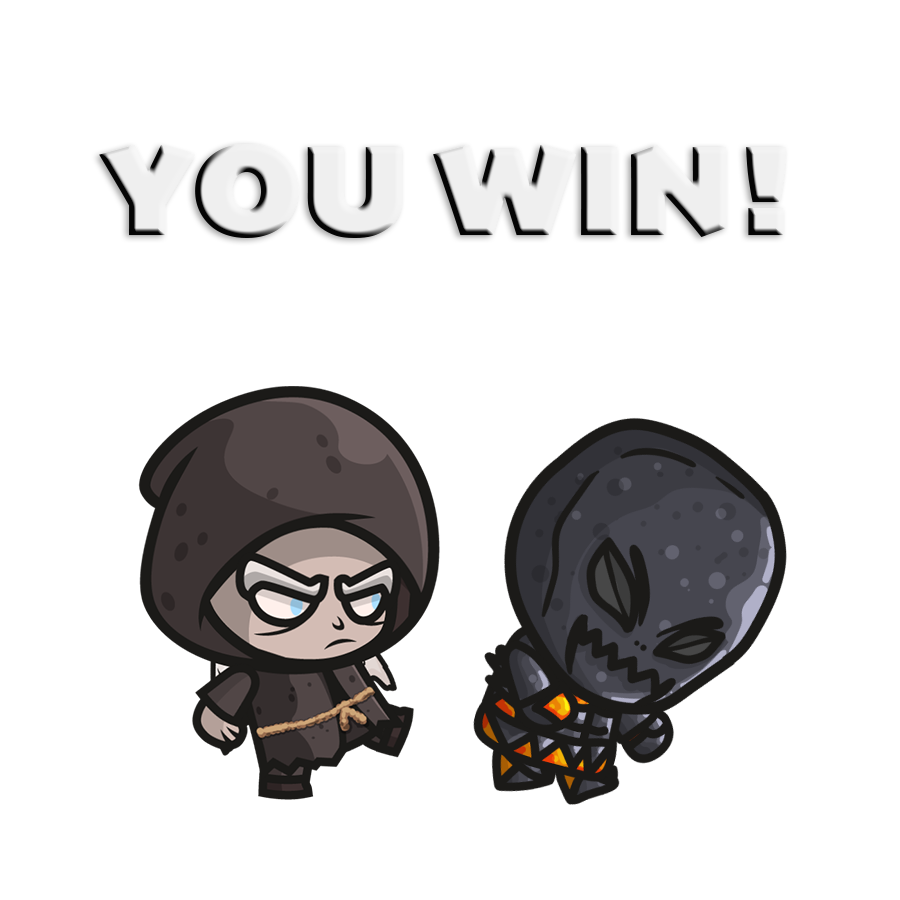
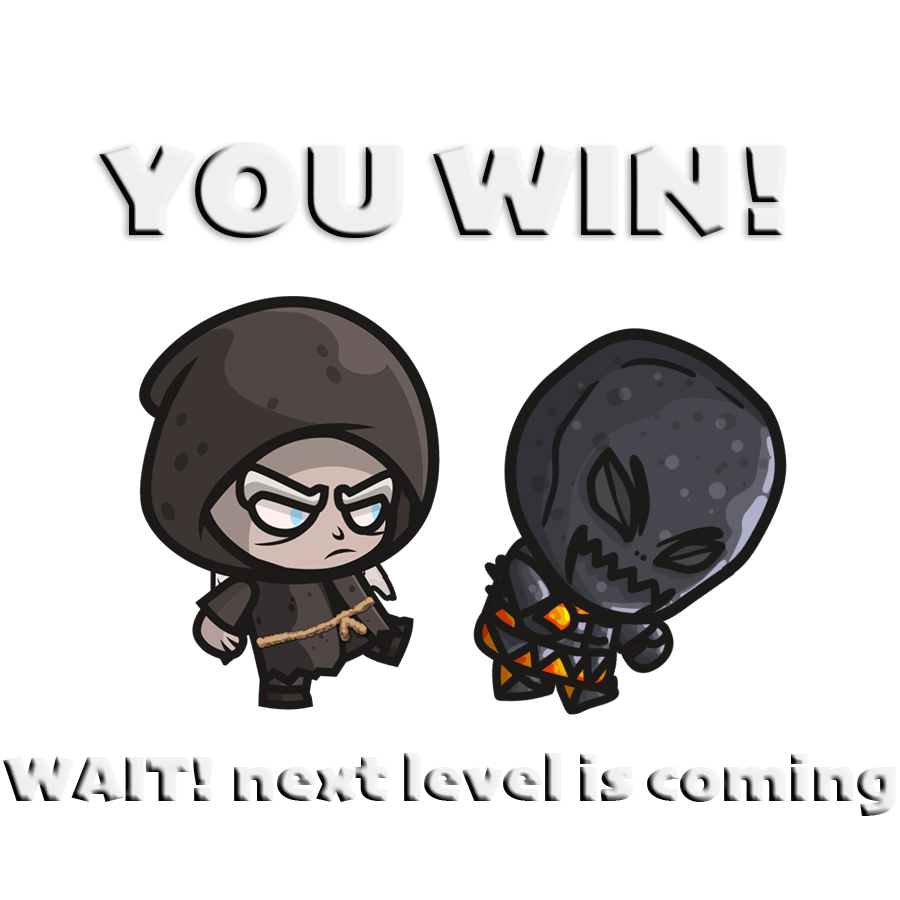
refactoring 2

Changed region(s): [[0.0, 0.3111, 0.9956, 0.9022]]

diff --git a/js/game.js b/js/game.js
@@ -25,6 +25,7 @@ const game = {
     lifeArray: [],
     newLife: [],
     finish: '',
+    actualLevel: 0,
 
     init() {
         this.canvas = document.getElementById("Lakeside");
@@ -34,6 +35,7 @@ const game = {
         this.setWindowsMove();
         this.start();
         this.resetButton()
+        this.restartButton()
         this.audioButton()
 
 
@@ -47,7 +49,6 @@ const game = {
 
             if (this.framesCounter > 10000) this.framesCounter = 0
             // this.backgroundNight()
-
             this.clearScreen()
             this.drawAll()
             this.moveALl()
@@ -71,8 +72,9 @@ const game = {
         this.enemiesArray = []
         this.lifeArray = []
         this.newLife = []
+        this.finish = ''
 
-        this.level1()
+        this.level()
 
         //Player
         this.player = new Player(this.ctx, this.windowsSize.width, this.windowsSize.height, this.keys, this.framesCounter)
@@ -81,10 +83,7 @@ const game = {
     drawAll() {
         this.backgroundArray.forEach(obs => obs.draw())
         this.lifeArray.forEach(obs => obs.draw())
-
         this.objectsArray.forEach(obs => obs.draw())
-        // this.objectsInMovementY.forEach(obs => obs.draw())
-        // this.objectsInMovementX.forEach(obs => obs.draw())
         this.newLife.forEach(obs => obs.draw())
         this.enemiesArray.forEach(obs => obs.draw(this.framesCounter))
         this.finish.draw()
@@ -92,10 +91,7 @@ const game = {
         this.player.draw(this.framesCounter);
     },
     moveALl() {
-        // this.backgroundArray.forEach(obs => obs.move())
         this.player.move(this.framesCounter);
-        // this.objectsInMovementY.forEach(obs => obs.moveY())
-        // this.objectsInMovementX.forEach(obs => obs.moveX())
         this.objectsArray.forEach(obs => obs.move())
         this.enemiesArray.forEach(obs => obs.move())
 
@@ -217,7 +213,6 @@ const game = {
 
     bulletCollision() {
         //Bullets impact
-
         this.enemiesArray.forEach(
             (enemy, idx) => {
                 this.player.bullets.forEach((bullet, idxBullet) => {
@@ -239,22 +234,39 @@ const game = {
             this.player.posY + this.player.height <= this.finish.posY + this.finish._height
         ) {
             this.youWin()
-            clearInterval(this.interval);
+            clearInterval(this.interval)
+            // Wait 10 sec
+            this.actualLevel != backgrounds.length - 1 ? setTimeout(() => {
+                this.changeLevel()
+            }, 5000) : null
         }
     },
 
     youWin() {
+
         let myImage = new Image()
-        myImage.src = 'images/game-win.png'
+        if (this.actualLevel != backgrounds.length - 1) {
+            myImage.src = 'images/game-win.png'
+        } else {
+            myImage.src = 'images/big-win.png'
+        }
         myImage.onload = () => this.ctx.drawImage(myImage, this.windowsSize.width / 2 - 200, this.windowsSize.height / 2 - 200, 400, 400)
-        this.gameMusic.stop()
+        // this.gameMusic.stop()
+
 
     },
+
+    changeLevel() {
+        this.clearScreen()
+        this.gameMusic._sound.currentTime = 0
+        this.actualLevel < backgrounds.length - 1 ? this.actualLevel++ : this.actualLevel = 0
+        this.start()
+    },
+
     gameOver() {
         let myImage = new Image()
         myImage.src = 'images/game-over.png'
         myImage.onload = () => this.ctx.drawImage(myImage, this.windowsSize.width / 2 - 200, this.windowsSize.height / 2 - 200, 400, 400)
-
         this.gameMusic.stop()
         clearInterval(this.interval);
     },
@@ -270,7 +282,6 @@ const game = {
         document.getElementById("reset-button").onclick = function () {
             clearInterval(this.interval);
             this.clearScreen()
-            // this.gameMusic.stop()
             this.gameMusic._sound.currentTime = 0
 
             this.start()
@@ -278,74 +289,29 @@ const game = {
         }.bind(game)
     },
 
-    level1() {
-        backgrounds.forEach(backgrounds => this.backgroundArray.push(backgrounds))
-        objects.forEach(object => this.objectsArray.push(object))
-        enemies.forEach(enemy => this.enemiesArray.push(enemy))
+    restartButton() {
+        document.getElementById("restart-button").onclick = function () {
+            clearInterval(this.interval);
+            this.clearScreen()
+            this.actualLevel = 0
+            this.gameMusic._sound.currentTime = 0
+
+            this.start()
+
+        }.bind(game)
+    },
+
+    level() {
+        backgrounds[this.actualLevel].forEach(backgrounds => this.backgroundArray.push(backgrounds))
+        objects[this.actualLevel].forEach(object => this.objectsArray.push(object))
+        enemies[this.actualLevel].forEach(enemy => this.enemiesArray.push(enemy))
 
         // New life
         this.newLife.push(new Object(this.ctx, 40, 40, this.windowsSize.width, this.windowsSize.height, 700, this.windowsSize.height - 370, 'images/pads/new-life.png'))
         //Finish
         this.finish = new Object(this.ctx, 130, 130, this.windowsSize.width, this.windowsSize.height, 50, 30, 'images/pads/finish.png')
 
-        // this.backgroundArray.push(new Background(this.ctx, this.windowsSize.width, this.windowsSize.height, 0, 0, 'images/background/sky-night.png'))
-        // this.backgroundArray.push(new Background(this.ctx, this.windowsSize.width, this.windowsSize.height, 0, 0, 'images/background/rocks.png'))
-        // this.backgroundArray.push(new Background(this.ctx, 510, 104, this.windowsSize.width / 2 - 255, 20, 'images/game-logo.png'))
-
-        // this.objectsArray.push(new Object(this.ctx, 300, 50, this.windowsSize.width, this.windowsSize.height, 0, this.windowsSize.height - 60, 'images/pads/green-floor.png'))
-        // this.objectsArray.push(new Object(this.ctx, 100, 30, this.windowsSize.width, this.windowsSize.height, 340, this.windowsSize.height - 80, 'images/pads/rock-floor.png'))
-        // this.objectsArray.push(new Object(this.ctx, 300, 35, this.windowsSize.width, this.windowsSize.height, 500, this.windowsSize.height - 80, 'images/pads/rock-floor.png'))
-        // this.objectsArray.push(new Object(this.ctx, 100, 30, this.windowsSize.width, this.windowsSize.height, 890, this.windowsSize.height - 80, 'images/pads/rock-floor.png'))
-
-
-        // this.objectsArray.push(new Object(this.ctx, 80, 20, this.windowsSize.width, this.windowsSize.height, 1050, this.windowsSize.height - 80, 'images/pads/tree-floor.png', 1050, this.windowsSize.height - 80, 110, 'vertical'))
-
-        // //Second floor
-        // this.objectsArray.push(new Object(this.ctx, 500, 40, this.windowsSize.width, this.windowsSize.height, 500, this.windowsSize.height - 200, 'images/pads/sand-floor.png'))
-        // this.objectsArray.push(new Object(this.ctx, 200, 30, this.windowsSize.width, this.windowsSize.height, 10, this.windowsSize.height - 200, 'images/pads/sand-floor.png'))
-
-        // this.objectsArray.push(new Object(this.ctx, 80, 20, this.windowsSize.width, this.windowsSize.height, 350, this.windowsSize.height - 200, 'images/pads/tree-floor.png', 390, this.windowsSize.height - 200, 130, 'horizontal'))
-
-        // // Third floor
-        // this.objectsArray.push(new Object(this.ctx, 40, 40, this.windowsSize.width, this.windowsSize.height, 10, this.windowsSize.height - 235, 'images/pads/rock.png'))
-        // this.objectsArray.push(new Object(this.ctx, 80, 20, this.windowsSize.width, this.windowsSize.height, 50, this.windowsSize.height - 300, 'images/pads/sand-floor.png'))
-        // this.objectsArray.push(new Object(this.ctx, 80, 20, this.windowsSize.width, this.windowsSize.height, 150, this.windowsSize.height - 290, 'images/pads/sand-floor.png'))
-        // this.objectsArray.push(new Object(this.ctx, 260, 30, this.windowsSize.width, this.windowsSize.height, 250, this.windowsSize.height - 310, 'images/pads/sand-floor.png'))
-
-        // this.objectsArray.push(new Object(this.ctx, 60, 20, this.windowsSize.width, this.windowsSize.height, 570, this.windowsSize.height - 305, 'images/pads/rock-floor.png'))
-        // this.objectsArray.push(new Object(this.ctx, 60, 20, this.windowsSize.width, this.windowsSize.height, 690, this.windowsSize.height - 305, 'images/pads/rock-floor.png'))
-        // this.objectsArray.push(new Object(this.ctx, 60, 20, this.windowsSize.width, this.windowsSize.height, 810, this.windowsSize.height - 305, 'images/pads/rock-floor.png'))
-
-        // this.objectsArray.push(new Object(this.ctx, 80, 20, this.windowsSize.width, this.windowsSize.height, 970, this.windowsSize.height - 300, 'images/pads/tree-floor.png', 970, this.windowsSize.height - 300, 60, 'horizontal'))
-        // this.objectsArray.push(new Object(this.ctx, 80, 20, this.windowsSize.width, this.windowsSize.height, 1100, this.windowsSize.height - 300, 'images/pads/tree-floor.png', 1100, this.windowsSize.height - 300, 80, 'vertical'))
-
-        // // Final
-        // this.objectsArray.push(new Object(this.ctx, 80, 20, this.windowsSize.width, this.windowsSize.height, 970, this.windowsSize.height - 410, 'images/pads/tree-floor.png', 990, this.windowsSize.height - 410, 80, 'horizontal'))
-        // this.objectsArray.push(new Object(this.ctx, 300, 35, this.windowsSize.width, this.windowsSize.height, 550, this.windowsSize.height - 420, 'images/pads/sand-floor.png'))
-        // this.objectsArray.push(new Object(this.ctx, 300, 40, this.windowsSize.width, this.windowsSize.height, 250, this.windowsSize.height - 450, 'images/pads/sand-floor.png'))
-
-
-        // this.objectsArray.push(new Object(this.ctx, 200, 40, this.windowsSize.width, this.windowsSize.height, 40, 140, 'images/pads/sand-floor.png'))
-
-
-        //Enemies
-        // this.enemiesCreationLevel1()
-
     },
-    enemiesCreationLevel1() {
 
-        // this.enemiesArray.push(new Enemy(this.ctx, this.windowsSize.width, this.windowsSize.height, 760, this.windowsSize.height - 120, 760, this.windowsSize.height - 120, 'images/enemies/enemy1-final.png', 250))
-        // this.enemiesArray.push(new Enemy(this.ctx, this.windowsSize.width, this.windowsSize.height, 940, this.windowsSize.height - 240, 940, this.windowsSize.height - 240, 'images/enemies/enemy1-final.png', 400))
-        // this.enemiesArray.push(new Enemy(this.ctx, this.windowsSize.width, this.windowsSize.height, 550, this.windowsSize.height - 240, 940, this.windowsSize.height - 240, 'images/enemies/enemy1-final.png', 400))
-        // this.enemiesArray.push(new Enemy(this.ctx, this.windowsSize.width, this.windowsSize.height, 800, this.windowsSize.height - 465, 800, this.windowsSize.height - 465, 'images/enemies/enemy1-final.png', 220))
-
-        // More Enemies
-        // if (this.framesCounter % 1000 === 0) {
-        // this.enemiesArray.push(new Enemy(this.ctx, this.windowsSize.width, this.windowsSize.height, 300, this.windowsSize.height - 450, 460, this.windowsSize.height - 350, 'images/enemies/enemy1-final.png', 220))
-        // this.enemiesArray.push(new Enemy(this.ctx, this.windowsSize.width, this.windowsSize.height, 350, this.windowsSize.height - 550, 500, this.windowsSize.height - 490, 'images/enemies/enemy2-final.png', 220))
-        // }
-        // this.enemiesArray.push(new Enemy(this.ctx, this.windowsSize.width, this.windowsSize.height, 390, this.windowsSize.height - 400, 460, this.windowsSize.height - 350, 'images/enemies/enemy1-final.png', 220))
-        // this.enemiesArray.push(new Enemy(this.ctx, this.windowsSize.width, this.windowsSize.height, 500, this.windowsSize.height - 490, 500, this.windowsSize.height - 490, 'images/enemies/enemy2-final.png', 220))
-    },
 
 }

diff --git a/js/levels.js b/js/levels.js
@@ -1,12 +1,19 @@
 let ctx = document.getElementById("Lakeside").getContext("2d")
 const backgrounds = [
+    [
+        new Background(ctx, game.windowsSize.width, game.windowsSize.height, 0, 0, 'images/background/sky-night.png'),
+        new Background(ctx, game.windowsSize.width, game.windowsSize.height, 0, 0, 'images/background/rocks.png'),
+        new Background(ctx, 510, 104, game.windowsSize.width / 2 - 235, 20, 'images/game-logo.png'),
+    ],
+    [
+        new Background(ctx, game.windowsSize.width, game.windowsSize.height, 0, 0, 'images/background/sky-night.png'),
+        new Background(ctx, game.windowsSize.width, game.windowsSize.height, 0, 0, 'images/background/rocks2.png'),
+        new Background(ctx, 510, 104, game.windowsSize.width / 2 - 235, 20, 'images/game-logo.png'),
 
-    new Background(ctx, game.windowsSize.width, game.windowsSize.height, 0, 0, 'images/background/sky-night.png'),
-    new Background(ctx, game.windowsSize.width, game.windowsSize.height, 0, 0, 'images/background/rocks.png'),
-    new Background(ctx, 510, 104, game.windowsSize.width / 2 - 255, 20, 'images/game-logo.png'),
+    ]
 ]
 
-const objects = [
+const objects = [[
     new Object(ctx, 300, 50, game.windowsSize.width, game.windowsSize.height, 0, game.windowsSize.height - 60, 'images/pads/green-floor.png'),
     new Object(ctx, 100, 30, game.windowsSize.width, game.windowsSize.height, 340, game.windowsSize.height - 80, 'images/pads/rock-floor.png'),
     new Object(ctx, 300, 35, game.windowsSize.width, game.windowsSize.height, 500, game.windowsSize.height - 80, 'images/pads/rock-floor.png'),
@@ -36,16 +43,62 @@ const objects = [
     new Object(ctx, 300, 35, game.windowsSize.width, game.windowsSize.height, 550, game.windowsSize.height - 420, 'images/pads/sand-floor.png'),
     new Object(ctx, 300, 40, game.windowsSize.width, game.windowsSize.height, 250, game.windowsSize.height - 450, 'images/pads/sand-floor.png'),
     new Object(ctx, 200, 40, game.windowsSize.width, game.windowsSize.height, 40, 140, 'images/pads/sand-floor.png'),
+],
+[
+    new Object(ctx, 100, 30, game.windowsSize.width, game.windowsSize.height, 0, game.windowsSize.height - 60, 'images/pads/city-floor.png'),
+    new Object(ctx, 100, 30, game.windowsSize.width, game.windowsSize.height, 90, game.windowsSize.height - 120, 'images/pads/rock-floor.png'),
+    new Object(ctx, 100, 30, game.windowsSize.width, game.windowsSize.height, 200, game.windowsSize.height - 120, 'images/pads/rock-floor.png'),
+    new Object(ctx, 80, 20, game.windowsSize.width, game.windowsSize.height, 320, game.windowsSize.height - 120, 'images/pads/tree-floor.png', 620, game.windowsSize.height - 200, 300, 'horizontal'),
+    new Object(ctx, 40, 40, game.windowsSize.width, game.windowsSize.height, 430, game.windowsSize.height - 160, 'images/pads/rock.png'),
+    new Object(ctx, 40, 40, game.windowsSize.width, game.windowsSize.height, 550, game.windowsSize.height - 160, 'images/pads/rock.png'),
+    new Object(ctx, 250, 35, game.windowsSize.width, game.windowsSize.height, 740, game.windowsSize.height - 120, 'images/pads/rock-floor.png'),
 
+    //Second floor
+    new Object(ctx, 80, 20, game.windowsSize.width, game.windowsSize.height, 1050, game.windowsSize.height - 100, 'images/pads/tree-floor.png', 1050, game.windowsSize.height - 100, 140, 'vertical'),
+    new Object(ctx, 250, 35, game.windowsSize.width, game.windowsSize.height, 740, game.windowsSize.height - 240, 'images/pads/rock-floor.png'),
+    new Object(ctx, 250, 35, game.windowsSize.width, game.windowsSize.height, 460, game.windowsSize.height - 250, 'images/pads/rock-floor.png'),
+    new Object(ctx, 50, 20, game.windowsSize.width, game.windowsSize.height, 255, game.windowsSize.height - 240, 'images/pads/sand-floor.png'),
+    new Object(ctx, 50, 20, game.windowsSize.width, game.windowsSize.height, 355, game.windowsSize.height - 230, 'images/pads/sand-floor.png'),
+    new Object(ctx, 160, 30, game.windowsSize.width, game.windowsSize.height, 40, game.windowsSize.height - 240, 'images/pads/rock-floor.png'),
+    new Object(ctx, 60, 20, game.windowsSize.width, game.windowsSize.height, 50, game.windowsSize.height - 300, 'images/pads/tree-floor.png', 50, game.windowsSize.height - 300, 80, 'vertical'),
+
+    // Third floor
+    new Object(ctx, 250, 30, game.windowsSize.width, game.windowsSize.height, 170, game.windowsSize.height - 350, 'images/pads/rock-floor.png'),
+    new Object(ctx, 50, 20, game.windowsSize.width, game.windowsSize.height, 480, game.windowsSize.height - 340, 'images/pads/sand-floor.png'),
+    new Object(ctx, 50, 20, game.windowsSize.width, game.windowsSize.height, 560, game.windowsSize.height - 330, 'images/pads/sand-floor.png'),
+    new Object(ctx, 80, 20, game.windowsSize.width, game.windowsSize.height, 700, game.windowsSize.height - 330, 'images/pads/tree-floor.png', 780, game.windowsSize.height - 330, 140, 'horizontal'),
+    new Object(ctx, 120, 30, game.windowsSize.width, game.windowsSize.height, 880, game.windowsSize.height - 330, 'images/pads/rock-floor.png'),
+    new Object(ctx, 60, 20, game.windowsSize.width, game.windowsSize.height, 1050, game.windowsSize.height - 330, 'images/pads/tree-floor.png', 1050, game.windowsSize.height - 330, 80, 'vertical'),
+    new Object(ctx, 60, 20, game.windowsSize.width, game.windowsSize.height, 1120, game.windowsSize.height - 480, 'images/pads/tree-floor.png', 1120, game.windowsSize.height - 350, 140, 'vertical'),
+
+    // Final
+    new Object(ctx, 300, 35, game.windowsSize.width, game.windowsSize.height, 750, game.windowsSize.height - 480, 'images/pads/sand-floor.png'),
+    new Object(ctx, 60, 30, game.windowsSize.width, game.windowsSize.height, 620, game.windowsSize.height - 450, 'images/pads/tree-floor.png', 800, game.windowsSize.height - 450, 80, 'vertical'),
+    new Object(ctx, 300, 40, game.windowsSize.width, game.windowsSize.height, 250, game.windowsSize.height - 460, 'images/pads/sand-floor.png'),
+    new Object(ctx, 200, 40, game.windowsSize.width, game.windowsSize.height, 40, 140, 'images/pads/sand-floor.png'),
+
+],
 ]
 
-const enemies = [
+const enemies = [[
     new Enemy(ctx, game.windowsSize.width, game.windowsSize.height, 760, game.windowsSize.height - 140, 760, game.windowsSize.height - 120, 'images/enemies/enemy1-final.png', 250),
     new Enemy(ctx, game.windowsSize.width, game.windowsSize.height, 940, game.windowsSize.height - 260, 940, game.windowsSize.height - 240, 'images/enemies/enemy1-final.png', 400),
     new Enemy(ctx, game.windowsSize.width, game.windowsSize.height, 550, game.windowsSize.height - 260, 940, game.windowsSize.height - 240, 'images/enemies/enemy1-final.png', 400),
     new Enemy(ctx, game.windowsSize.width, game.windowsSize.height, 800, game.windowsSize.height - 485, 800, game.windowsSize.height - 465, 'images/enemies/enemy1-final.png', 220),
     new Enemy(ctx, game.windowsSize.width, game.windowsSize.height, 300, game.windowsSize.height - 550, 500, game.windowsSize.height - 495, 'images/enemies/enemy2-final.png', 220),
     new Enemy(ctx, game.windowsSize.width, game.windowsSize.height, 450, game.windowsSize.height - 550, 500, game.windowsSize.height - 495, 'images/enemies/enemy2-final.png', 220),
+],
+[
+    new Enemy(ctx, game.windowsSize.width, game.windowsSize.height, 900, game.windowsSize.height - 160, 940, game.windowsSize.height - 160, 'images/enemies/enemy1-final.png', 200),
+    new Enemy(ctx, game.windowsSize.width, game.windowsSize.height, 940, game.windowsSize.height - 280, 940, game.windowsSize.height - 280, 'images/enemies/enemy1-final.png', 210),
+    new Enemy(ctx, game.windowsSize.width, game.windowsSize.height, 600, game.windowsSize.height - 290, 670, game.windowsSize.height - 290, 'images/enemies/enemy1-final.png', 200),
+    new Enemy(ctx, game.windowsSize.width, game.windowsSize.height, 150, game.windowsSize.height - 280, 150, game.windowsSize.height - 280, 'images/enemies/enemy1-final.png', 110),
+    new Enemy(ctx, game.windowsSize.width, game.windowsSize.height, 240, game.windowsSize.height - 395, 350, game.windowsSize.height - 395, 'images/enemies/enemy1-final.png', 160),
+
+    new Enemy(ctx, game.windowsSize.width, game.windowsSize.height, 800, game.windowsSize.height - 550, 990, game.windowsSize.height - 520, 'images/enemies/enemy2-final.png', 220),
+    new Enemy(ctx, game.windowsSize.width, game.windowsSize.height, 300, game.windowsSize.height - 550, 490, game.windowsSize.height - 500, 'images/enemies/enemy2-final.png', 220),
+    new Enemy(ctx, game.windowsSize.width, game.windowsSize.height, 450, game.windowsSize.height - 550, 490, game.windowsSize.height - 500, 'images/enemies/enemy2-final.png', 220),
 
 
+],
 ]

diff --git a/css/style.css b/css/style.css
@@ -28,8 +28,8 @@
     border-radius: 20px;
     position: absolute;
     left: 530px;
-    bottom: 100px;
-    padding: 10px 74px;
+    bottom: 120px;
+    padding: 10px 73px;
     margin: 10px auto;
     color: white;
     background-color: rgb(0, 172, 100);
@@ -62,6 +62,21 @@
     margin: 10px auto;
     color: white;
     background-color: tomato;
+    box-shadow: 5px 5px 8px #3d3d3d;
+}
+
+#restart-button {
+    font-size: 13px;
+    text-transform: uppercase;
+    border-radius: 20px;
+    border-color: black;
+    position: absolute;
+    right: 50px;
+    bottom: 20px;
+    padding: 11px 20px;
+    margin: 10px auto;
+    color: black;
+    background-color: #fdd100;
     box-shadow: 5px 5px 8px #3d3d3d;
 }
 

diff --git a/js/levels2.js b/js/levels2.js
@@ -3,7 +3,7 @@ const backgrounds = [
 
     new Background(ctx, game.windowsSize.width, game.windowsSize.height, 0, 0, 'images/background/sky-night.png'),
     new Background(ctx, game.windowsSize.width, game.windowsSize.height, 0, 0, 'images/background/rocks2.png'),
-    new Background(ctx, 510, 104, game.windowsSize.width / 2 - 255, 20, 'images/game-logo.png'),
+    new Background(ctx, 510, 104, game.windowsSize.width / 2 - 235, 20, 'images/game-logo.png'),
 ]
 
 const objects = [

diff --git a/js/mainplayer.js b/js/mainplayer.js
@@ -10,8 +10,8 @@ class Player {
         this.width = 50
         this.height = 50
 
-        this.posX = 20
-        this.posY0 = this.gameHeight - 150; //Guardamos la posicion original para usarla como suelo
+        this.posX = 150
+        this.posY0 = this.gameHeight - 550; //Guardamos la posicion original para usarla como suelo
         this.posY = this.gameHeight - this.height;
 
         this.velY = 1

diff --git a/index.html b/index.html
@@ -21,6 +21,8 @@
     <div class="start">
         <!-- <img id="logo" src="images/game-logo.png" alt="game logo"> -->
         <button id="start-button">Start</button>
+        <button id="restart-button">Restart</button>
+
         <button id="audio-button">Audio: on/off</button>
         <button id="reset-button">Reset</button>
 

diff --git a/js/enemies.js b/js/enemies.js
@@ -56,7 +56,7 @@ class Enemy {
         let gravity = 0.8;
 
         if (this.posY < this.posY0) {
-            //COmprobamos que el player nunca sobrepase el suelo.
+            //Comprobamos que el player nunca sobrepase el suelo.
 
             this.posY += this.velY;
             this.velY += gravity;
